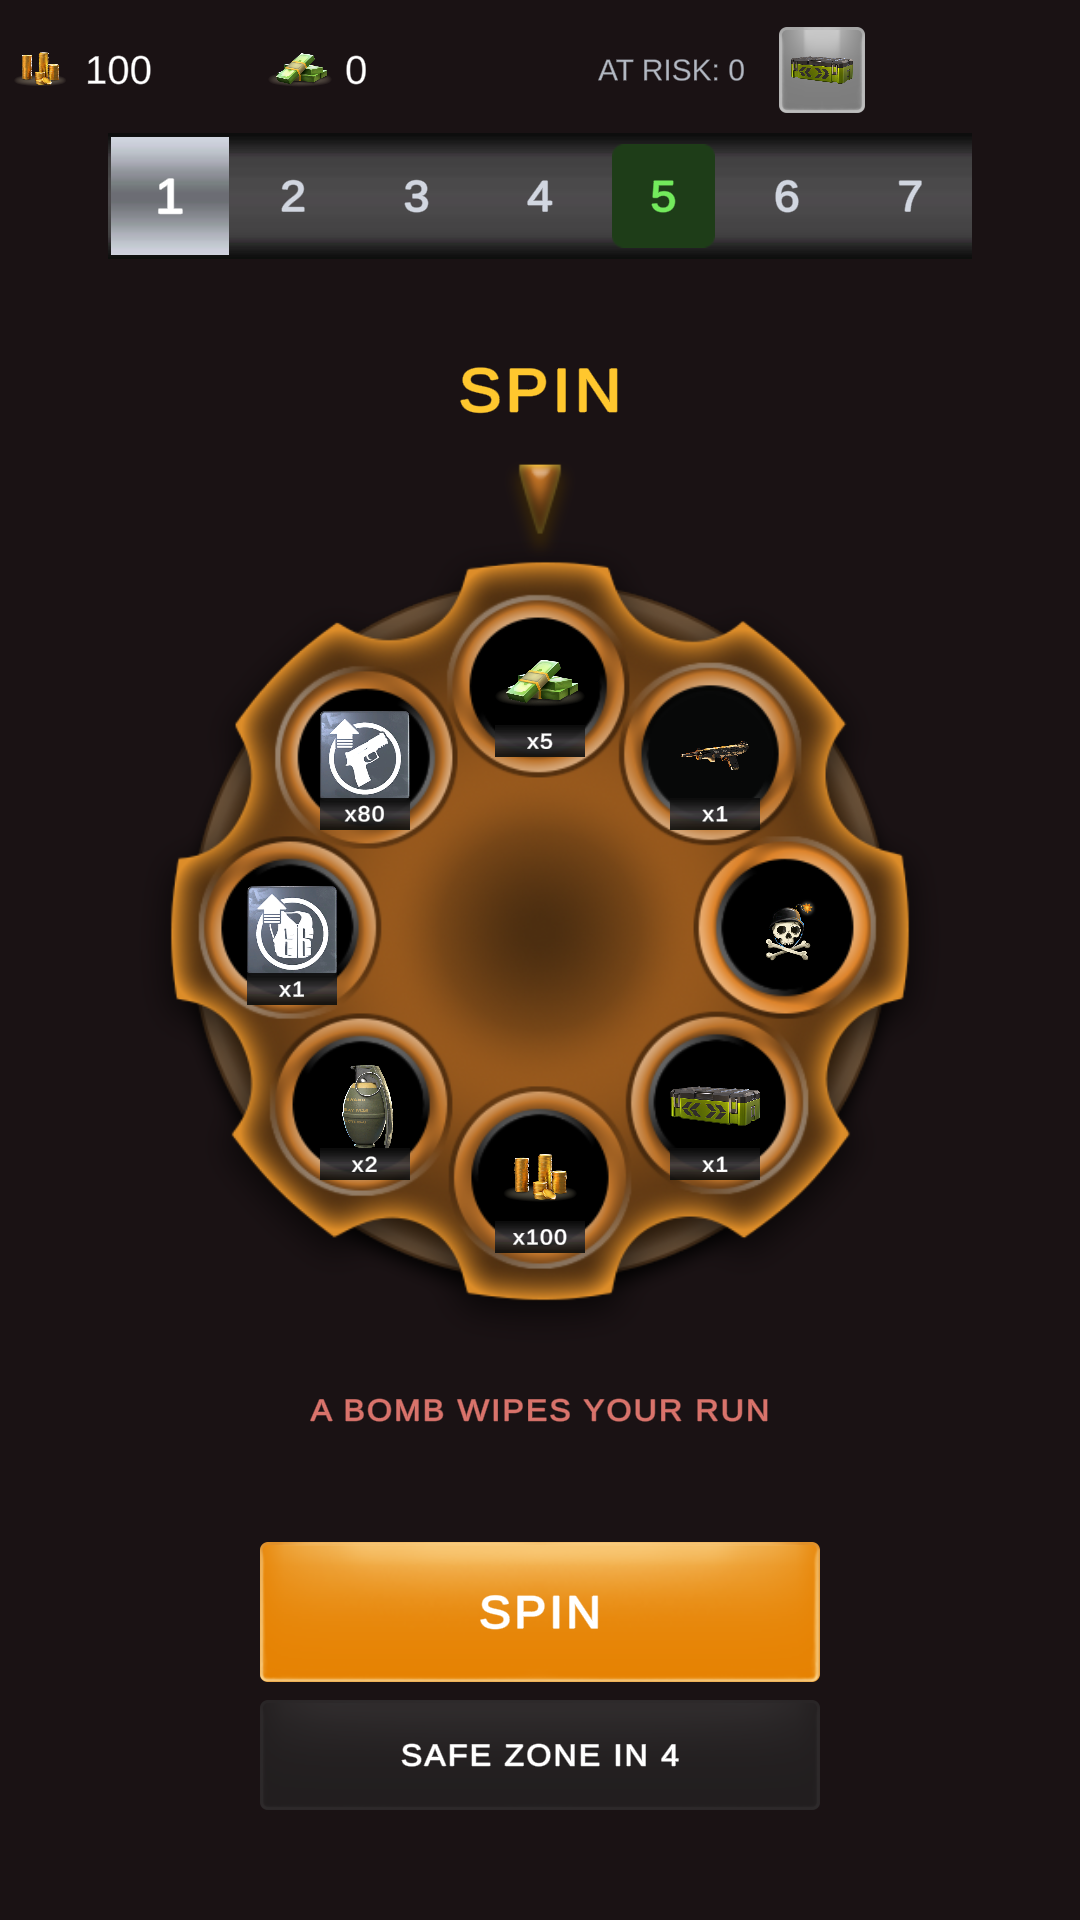
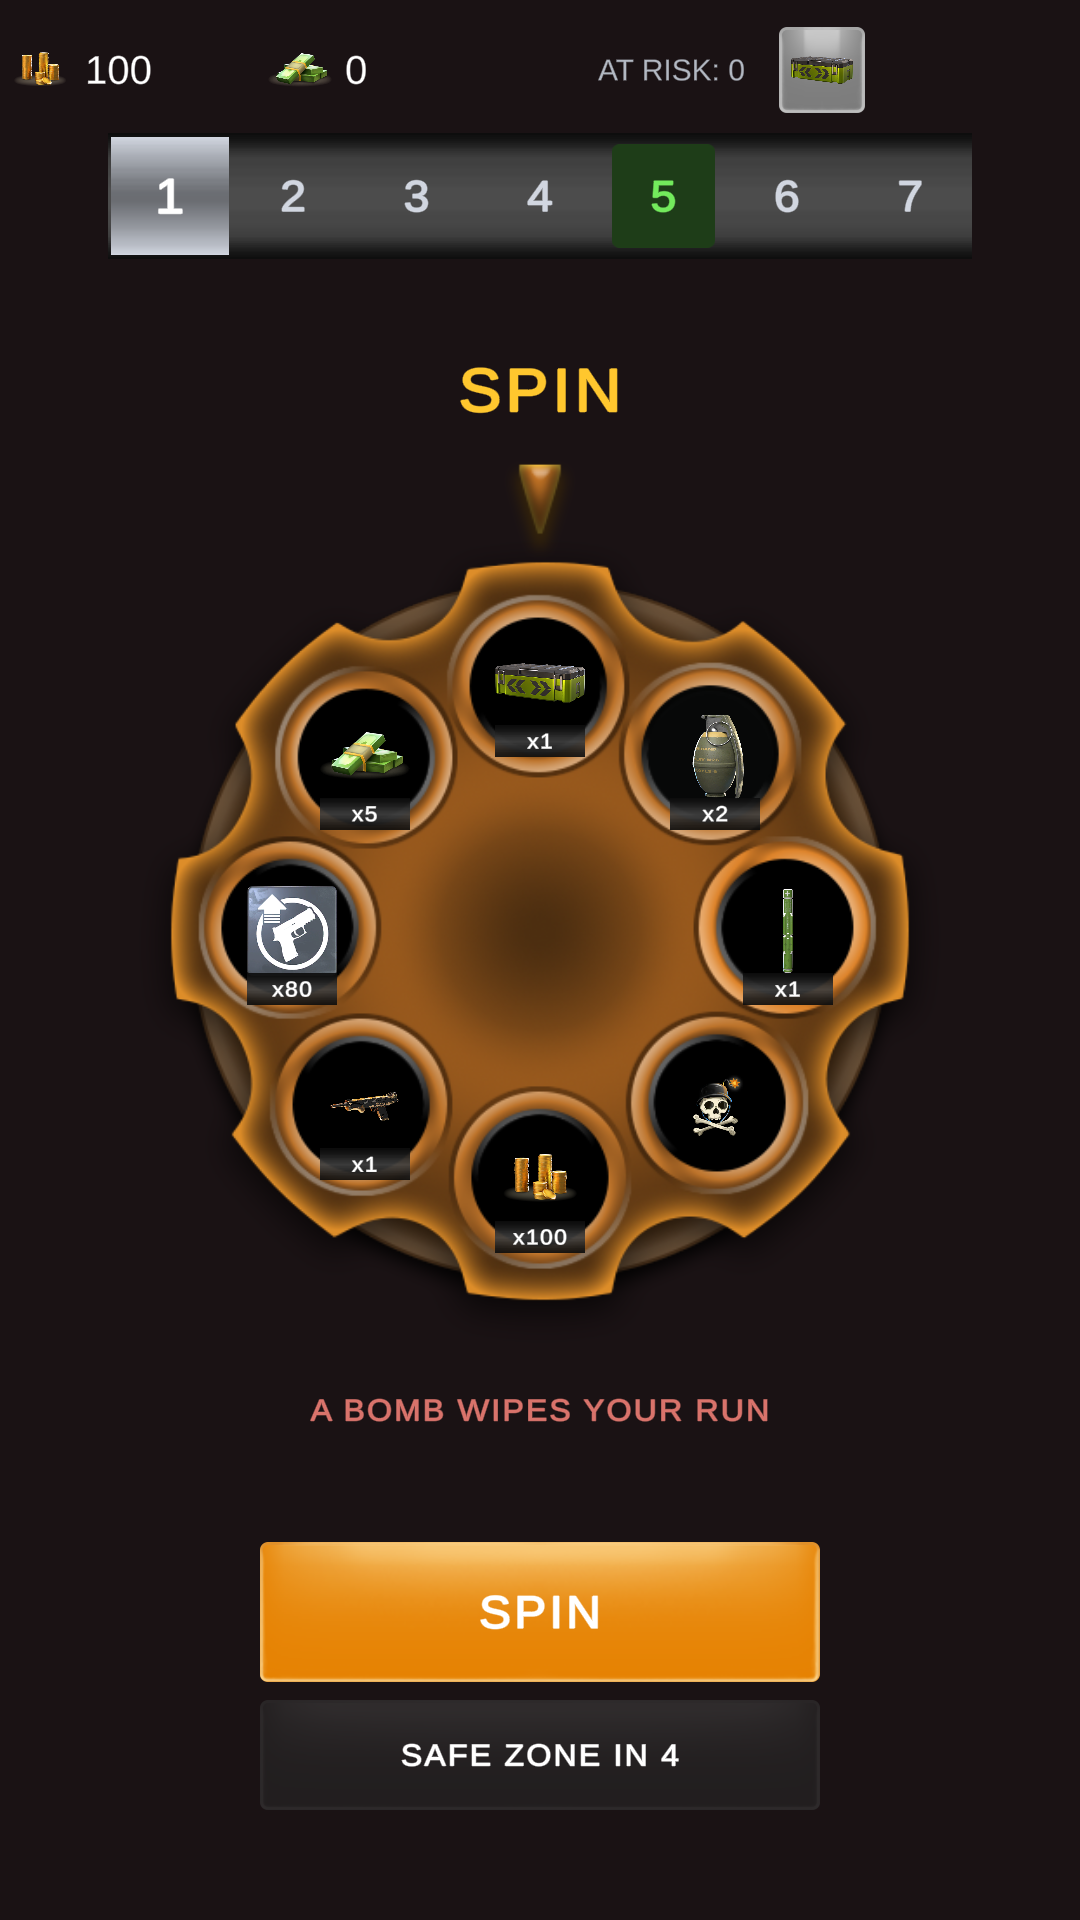
Refresh the screenshots and README for resubmission
Screenshots recaptured at 20:9, 16:9 and 4:3 from the current scene: the resized
zone track, and the bronze wheel carrying the Regenerator instead of the shield.
The README describes the shield as a silver-spin gift and states the current
reward and test counts.

diff --git a/README.md b/README.md
@@ -22,7 +22,9 @@ or **super** (every 30th) zone.
 - **Spin** the revolver wheel — win a reward (stacks + grows each zone) or hit the **bomb**.
 - **Safe / super zones** are risk-free (silver / golden spin, no bomb). After a safe-zone
   win you may **cash out from the reward popup** instead of pushing back into risk.
-- **Bomb** wipes the run — *revive* with gold (or ad), or *restart* from zone 1.
+- **Bomb** wipes the run — *revive* with gold, an ad or a held **shield**, or *restart* from zone 1.
+- **Shield** is the silver spin's special gift: it only appears on safe-zone (silver) wheels
+  and survives one bomb later in the run.
 - **Sound**: SFX for spin, win, bomb, cash-out and UI clicks.
 
 ## UX & game feel
@@ -132,14 +134,15 @@ Aspect screenshots (20:9 / 16:9 / 4:3): **Wof ▸ Capture Aspect Screenshots**
 Built commit-by-commit, bottom-up (Domain → Data → Application → Presentation).
 See the git log for the feature-by-feature progression.
 
-- Domain rules + edit-mode unit tests (29) — done
-- Data ScriptableObjects + generated instances (21 rewards, 3 wheels, tuning,
+- Domain rules + EditMode tests (81, including checks on the shipped wheel assets) — done
+- Data ScriptableObjects + generated instances (22 rewards, 3 wheels, tuning,
   settings, sprite registry) — done
 - Application: event bus, services, `GameContext`, full state machine — done
 - Presentation: all views, per-area presenters + `GameController` composition root — done
 - `Game.unity` scene with the brief's naming/raycast/sliced-sprite rules — done
 - Sprite Atlas, TMP, DOTween — done
-- PlayMode smoke tests (boot → spin → resolve → next zone) — done
+- PlayMode tests (9): boot → spin → resolve → next zone, every button clickable, and the
+  brief's Image rules (no stretched sprites, no stray Raycast Target / Maskable) — done
 - Top zone progress counter + reward-popup cash-out on safe/super zones — done
 - Audio: `SoundBank` ScriptableObject + `AudioService` (event-bus driven), spin/win/
   bomb/cash-out/click SFX — done
